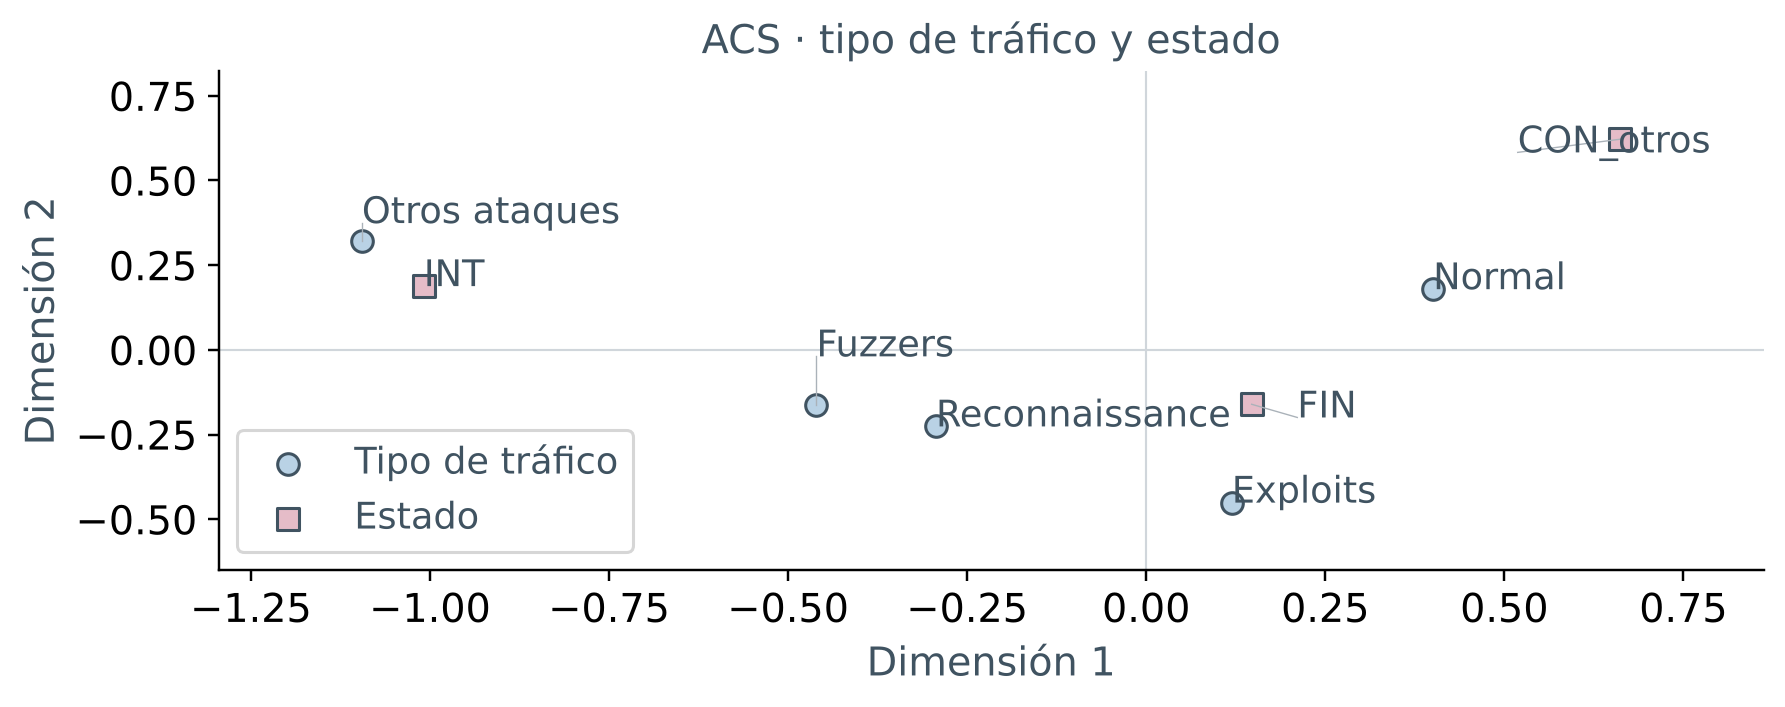
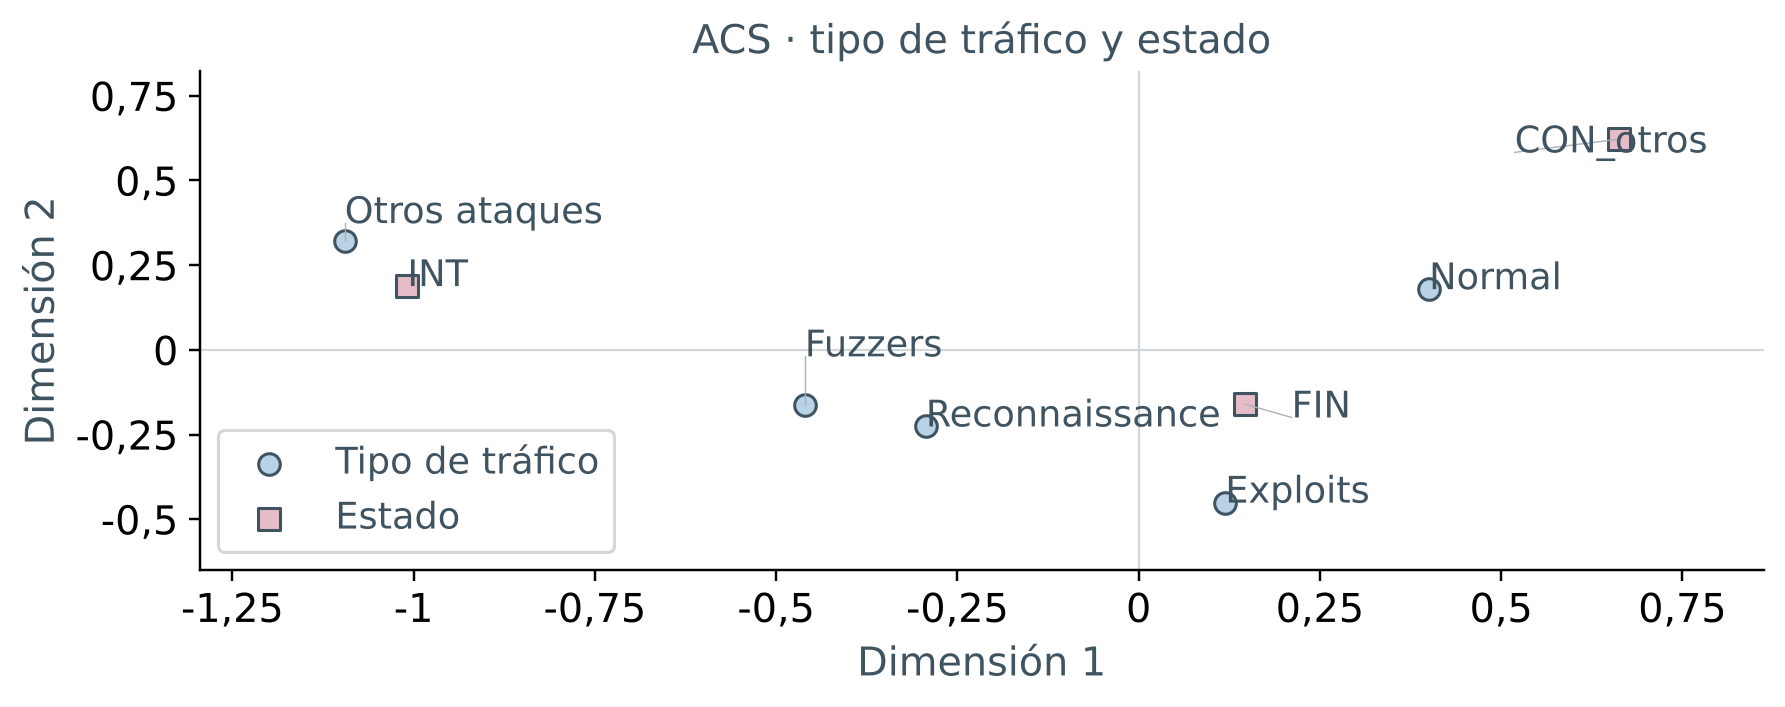
Figuras: coma decimal en ejes, porcentajes del biplot y umbral 1/Q calculados
Claude-Session: https://claude.ai/code/session_01R3eRD9aWdWVaf9U5N6a3X7

diff --git a/informe/capitulos/02_datos.tex b/informe/capitulos/02_datos.tex
@@ -1,17 +1,17 @@
 \section{Datos}
 \label{sec:datos}
 
-\textbf{Origen y unidad de análisis.} Trabajamos con UNSW-NB15 \citep{moustafa2015,moustafa2016}, publicada por UNSW Canberra para uso académico con obligación de citar a sus autores. El tráfico normal es realista, pero los ataques se generaron de forma sintética en un laboratorio. La unidad de análisis es el flujo; el prefijo \texttt{s} indica el sentido origen$\to$destino y \texttt{d} el inverso. Partimos del archivo de entrenamiento (175.341 flujos y 45 columnas) y construimos una muestra de 5.000 flujos únicos, estratificada de forma proporcional por \texttt{attack\_cat}: 48,2~\% normales y 51,8~\% ataques (Exploits 18,4~\%, Fuzzers 15,0~\%, Reconnaissance 7,0~\% y el resto, 11,5~\%, agrupado como ``otros ataques''). Al eliminar los duplicados, que en el archivo original eran el 38,6~\% y en su mayoría ataques automáticos, analizamos perfiles distintos de flujo: las proporciones de la muestra no son prevalencias reales de la red.
+\textbf{Origen y muestra.} Trabajamos con UNSW-NB15 \citep{moustafa2015,moustafa2016}, de uso académico con obligación de citar a sus autores. El tráfico normal es realista, pero los ataques se generaron de forma sintética en un laboratorio. Cada fila es un flujo, una conversación entre origen y destino (el prefijo \texttt{s} indica el sentido origen$\to$destino y \texttt{d} el inverso). Del archivo de entrenamiento (175.341 flujos) tomamos 5.000 flujos únicos, con muestreo estratificado proporcional por \texttt{attack\_cat}: 48,2~\% normales y 51,8~\% ataques (Exploits 18,4~\%, Fuzzers 15,0~\%, Reconnaissance 7,0~\% y otros 11,5~\%). Al no haber duplicados (eran el 38,6~\% del original, sobre todo ataques automáticos) analizamos perfiles distintos, de modo que las proporciones no son prevalencias reales de una red.
 
-\textbf{Transformación.} Las variables son positivas, con colas muy largas y rangos de varios órdenes de magnitud. Aplicamos $\log(x+1)$, que conserva los ceros y reduce la asimetría de \texttt{sbytes} de 33,3 a 1,0, la de \texttt{spkts} de 30,9 a 0,8 y la de \texttt{dbytes} de 36,2 a $-0,4$. Persisten colas en \texttt{log\_dur} (2,8), \texttt{log\_ct\_src\_dport\_ltm} (3,1) y \texttt{log\_ct\_dst\_sport\_ltm} (4,7). Los gráficos antes y después están en el Anexo A (Figuras~\ref{fig:a-hist-crudos} y~\ref{fig:a-hist-log}).
+\textbf{Transformación.} Las variables son positivas, muy asimétricas y de rangos de varios órdenes de magnitud. Aplicamos $\log(x+1)$, que conserva los ceros y baja la asimetría de \texttt{sbytes} de 33,3 a 1,0; persisten colas en \texttt{log\_dur} (2,8) y en dos conteos (Anexo A, Figuras~\ref{fig:a-hist-crudos} y~\ref{fig:a-hist-log}).
 
-\textbf{Variables.} El conjunto X\_num queda formado por las 12 variables de la Tabla~\ref{tab:xnum}, todas en escala logarítmica, agrupadas en los tres bloques esperados. El conjunto X\_cat tiene siete variables: \texttt{tipo\_trafico} (Normal, Exploits, Fuzzers, Reconnaissance y Otros ataques), \texttt{proto\_g} (tcp 70,8~\%, udp 21,9~\%, otros 7,3~\%), \texttt{service\_g} (ninguno 60,0~\%, http 17,4~\%, otros 12,3~\%, dns 10,3~\%), \texttt{state\_g} (FIN 69,3~\%, INT 18,3~\%, CON\_otros 12,4~\%) y tres numéricas discretizadas, \texttt{respuesta\_destino}, \texttt{duracion\_banda} y \texttt{bytes\_origen\_banda}, cuyos cortes se justifican en la sección~\ref{sec:acm}. Ninguna categoría baja del 5~\% (la menor es Reconnaissance, con 7,0~\%). Las variables \texttt{tipo\_trafico}, \texttt{attack\_cat} y \texttt{label} no intervienen en la construcción de componentes, factores ni clusters: solo colorean o se cruzan después.
+\textbf{Variables.} X\_num son las 12 variables de la Tabla~\ref{tab:xnum}, en escala logarítmica. X\_cat tiene siete variables: \texttt{tipo\_trafico}, \texttt{proto\_g}, \texttt{service\_g} y \texttt{state\_g} (con categorías agrupadas) y tres numéricas discretizadas, \texttt{respuesta\_destino}, \texttt{duracion\_banda} y \texttt{bytes\_origen\_banda}, cuyos cortes se justifican en la sección~\ref{sec:acm}; ninguna categoría baja del 5~\% (Anexo A, Figura~\ref{fig:a-frecuencias}). \texttt{tipo\_trafico}, \texttt{attack\_cat} y \texttt{label} no construyen componentes, factores ni clusters: solo colorean o se cruzan después.
 
 \begin{table}[H]
   \centering
   \caption{Variables de X\_num (todas en escala $\log(x+1)$; la unidad es la de la variable original).}\label{tab:xnum}
   \begin{tablacompacta}
-  \begin{tabular}{@{}llp{6.6cm}l@{}}
+  \begin{tabular}{@{}llp{7.2cm}l@{}}
   \toprule
   Variable & Bloque esperado & Significado & Unidad \\
   \midrule
@@ -20,9 +20,9 @@
   \texttt{dbytes} & Volumen & Bytes enviados por el destino & bytes \\
   \texttt{dur} & Temporización & Duración total del flujo & segundos \\
   \texttt{sinpkt} & Temporización & Tiempo entre paquetes del origen & ms \\
-  \texttt{sjit} & Temporización & Jitter (variabilidad de esos tiempos) del origen & ms \\
-  \texttt{synack} & Temporización & Tiempo entre SYN y SYN-ACK (0 si no es TCP) & segundos \\
-  \texttt{ct\_srv\_src} & Repetición & Últimas 100 conexiones con igual servicio y origen & conexiones \\
+  \texttt{sjit} & Temporización & Jitter del origen (variación de esos tiempos) & ms \\
+  \texttt{synack} & Temporización & Tiempo SYN a SYN-ACK (0 si no es TCP) & segundos \\
+  \texttt{ct\_srv\_src} & Repetición & Entre las últimas 100 conexiones, igual servicio y origen & conexiones \\
   \texttt{ct\_srv\_dst} & Repetición & Ídem con igual servicio y destino & conexiones \\
   \texttt{ct\_src\_ltm} & Repetición & Ídem con igual origen & conexiones \\
   \texttt{ct\_src\_dport\_ltm} & Repetición & Ídem con igual origen y puerto destino & conexiones \\
@@ -32,17 +32,17 @@
   \end{tablacompacta}
 \end{table}
 
-\textbf{Calidad.} No hay valores faltantes ni textos vacíos, filas duplicadas ni identificadores repetidos, y tampoco valores negativos, TTL fuera de 0--255, conteos no enteros ni flujos con menos bytes que paquetes (Anexo A, Tabla~\ref{tab:a-calidad}). La única incidencia es un flujo con \texttt{is\_ftp\_login} = 4, un código no binario; lo conservamos porque esa variable no entra en los análisis. El servicio ``\texttt{-}'' se recodificó como ``ninguno'' (sin servicio identificado, no faltante). Hay ceros estructurales que no imputamos: \texttt{synack} en 1.482 flujos (29,6~\%, sin handshake TCP), \texttt{sjit} en 1.294 (25,9~\%) y \texttt{dbytes} en 945 (18,9~\%, el destino no respondió). Para los atípicos usamos el criterio de Tukey, fuera de $[Q_1-1{,}5\,\mathrm{RIC};\,Q_3+1{,}5\,\mathrm{RIC}]$ sobre la escala logarítmica. Resultan 1.714 flujos (34,3~\%) con al menos una de las 12 variables fuera de los límites; la mayor cifra es la de \texttt{log\_dbytes}, 1.056 casos (21,1~\%), de los cuales 945 son los ceros de flujos sin respuesta. En \texttt{log\_ct\_dst\_sport\_ltm} el criterio es poco informativo, porque el 90,7~\% de los flujos vale 1 y el rango intercuartílico es nulo. Decidimos conservar todos los flujos: en ciberseguridad lo extremo puede ser el fenómeno de interés y un valor extremo no prueba un error (boxplots en Anexo A, Figura~\ref{fig:a-boxplots}).
+\textbf{Calidad.} No hay faltantes, duplicados ni valores imposibles; la única incidencia es un flujo con \texttt{is\_ftp\_login} = 4 (código no binario), que conservamos porque esa variable no se usa (Anexo A, Tabla~\ref{tab:a-calidad}). El servicio ``\texttt{-}'' se recodificó como ``ninguno''. No imputamos los ceros estructurales: \texttt{synack} 29,6~\% (sin handshake TCP), \texttt{sjit} 25,9~\% y \texttt{dbytes} 18,9~\% (el destino no respondió). Para los atípicos usamos el criterio de Tukey ($1{,}5\times$ RIC) sobre la escala logarítmica: 1.714 flujos (34,3~\%) tienen al menos una de las 12 variables fuera de los límites, sobre todo \texttt{log\_dbytes} (21,1~\%, de los cuales 945 son esos ceros; Anexo A, Tabla~\ref{tab:a-atipicos} y Figura~\ref{fig:a-boxplots}). Los conservamos todos: en ciberseguridad lo extremo puede ser el fenómeno de interés y no prueba un error.
 
-\textbf{Descriptiva y supuestos.} La Figura~\ref{fig:correlaciones} muestra tres zonas. Las variables de volumen se correlacionan entre sí (\texttt{spkts}--\texttt{sbytes} 0,86; \texttt{spkts}--\texttt{dbytes} 0,80), las de temporización también (\texttt{sinpkt}--\texttt{sjit} 0,85; \texttt{dur}--\texttt{sinpkt} 0,68) y las de repetición forman un tercer grupo (\texttt{ct\_srv\_src}--\texttt{ct\_srv\_dst} 0,85; \texttt{ct\_src\_dport\_ltm}--\texttt{ct\_dst\_sport\_ltm} 0,74). Las repeticiones se correlacionan de forma negativa con el resto (entre $-0,13$ y $-0,43$), y \texttt{sjit} tiene correlaciones de 0,46 a 0,55 con las de volumen, de modo que los bloques no están completamente aislados.
+\textbf{Descriptiva y supuestos.} La Figura~\ref{fig:correlaciones} muestra tres zonas: volumen (\texttt{spkts}--\texttt{sbytes} 0,86), temporización (\texttt{sinpkt}--\texttt{sjit} 0,85) y repetición (\texttt{ct\_srv\_src}--\texttt{ct\_srv\_dst} 0,85), esta última con correlaciones negativas con el resto ($-0,13$ a $-0,43$). \texttt{sjit} también se asocia con el volumen (0,46 a 0,55), así que los bloques no están aislados.
 
 \begin{figure}[H]
   \centering
-  \grafico[0.56\linewidth]{04_correlaciones.png}
-  \caption{Correlaciones de Pearson entre las 12 variables de X\_num. Se distinguen los bloques de volumen, temporización y repetición de conexiones; el último se asocia de forma negativa con los otros dos. Fuente: elaboración propia con UNSW-NB15.}
+  \grafico[0.5\linewidth]{04_correlaciones.png}
+  \caption{Correlaciones de Pearson entre las 12 variables de X\_num. Se distinguen los bloques de volumen, temporización y repetición; el último se asocia de forma negativa con los otros dos. Fuente: elaboración propia con UNSW-NB15.}
   \label{fig:correlaciones}
 \end{figure}
 
-Los supuestos se cumplen: el determinante de la matriz de correlaciones es $6{,}3\times10^{-5}$ (mayor que $10^{-5}$), el KMO global es 0,748, la menor MSA es 0,621 (\texttt{log\_spkts}; ninguna variable queda bajo 0,50, Anexo A, Figura~\ref{fig:a-msa}) y la prueba de Bartlett rechaza que la matriz sea identidad ($\chi^2$ = 48.303,5; 66 gl; p < 0,001), aunque con n = 5.000 esto ocurre ante casi cualquier asociación y pesa más el KMO. Con las 14 variables candidatas el determinante era $1{,}0\times10^{-7}$, por la redundancia de \texttt{dpkts} (r = 0,95 con \texttt{dbytes}) y de \texttt{rate} (r = $-0,91$ con \texttt{sinpkt}, y calculada a partir de los paquetes y la duración). Quitar solo \texttt{dpkts} dejaba el determinante en $5{,}2\times10^{-6}$, aún bajo el umbral; por eso excluimos las dos. Estas columnas siguen en la base: \texttt{dpkts} define \texttt{respuesta\_destino}.
+Los supuestos se cumplen (Anexo A, Figura~\ref{fig:a-msa}): determinante $6{,}3\times10^{-5}$ (mayor que $10^{-5}$), KMO global 0,748, MSA mínima 0,621 (\texttt{log\_spkts}) y Bartlett significativo ($\chi^2$ = 48.303,5; 66 gl; p < 0,001), aunque con n = 5.000 pesa más el KMO. Con 14 candidatas el determinante era $1{,}0\times10^{-7}$ por la redundancia de \texttt{dpkts} (r = 0,95 con \texttt{dbytes}) y de \texttt{rate} (r = $-0,91$ con \texttt{sinpkt}, calculada a partir de paquetes y duración); quitar solo \texttt{dpkts} lo dejaba en $5{,}2\times10^{-6}$, todavía bajo el umbral, por lo que excluimos ambas.
 
-\textbf{Vínculo con H1.} Las correlaciones son compatibles con tres bloques, aunque la separación entre volumen y temporización es parcial; las secciones siguientes ponen a prueba si ACP, AF y el cluster de variables los recuperan.
+\textbf{Vínculo con H1.} Las correlaciones son compatibles con tres bloques, con separación parcial entre volumen y temporización; las secciones siguientes ponen a prueba si los métodos los recuperan.

diff --git a/informe/capitulos/03_acp.tex b/informe/capitulos/03_acp.tex
@@ -1,5 +1,46 @@
 \section{Análisis de componentes principales}
 \label{sec:acp}
 
-[Pendiente]
+\textbf{Estandarización.} Aplicamos \texttt{prcomp(X\_num, scale. = TRUE)}. Las varianzas de las variables en escala logarítmica son muy desiguales: van de 0,002 (\texttt{log\_synack}) a 13,61 (\texttt{log\_sjit}), más de 7.500 veces, y tres de ellas (\texttt{log\_sjit}, \texttt{log\_dbytes} y \texttt{log\_sinpkt}) reúnen el 83,2~\% de la varianza total. Sin estandarizar, la primera componente captaría el 66,4~\% de la variabilidad, frente al 43,3~\% con estandarización: ese resultado reflejaría las unidades y no las relaciones entre variables. Por eso trabajamos con la matriz de correlaciones \citep{johnson2007}.
 
+\textbf{Cantidad de componentes.} Los autovalores son 5,195, 2,026 y 1,721 para las tres primeras componentes, y el cuarto cae a 0,759; solo tres superan 1 (criterio de Kaiser). El gráfico del codo (Figura~\ref{fig:acp-biplot}, izquierda) muestra una caída marcada hasta la tercera y un tramo casi plano después. Las tres componentes explican el 43,3~\%, el 16,9~\% y el 14,3~\% de la varianza, 74,5~\% acumulado, y cada una de las restantes aporta menos del 6,4~\%. Retenemos tres, que son interpretables y coinciden en número con los bloques de H1.
+
+\textbf{Interpretación.} La Tabla~\ref{tab:acp-cargas} muestra las correlaciones variable--componente. En CP1, las siete variables de volumen y temporización tienen signo positivo (0,54 a 0,82) y las cinco de repetición, negativo ($-0,56$ a $-0,70$); las que más contribuyen son \texttt{log\_sjit} (13,1~\%), \texttt{log\_sinpkt} (9,9~\%) y \texttt{log\_ct\_srv\_dst} (9,4~\%). CP2 se construye sobre todo con \texttt{log\_spkts} (20,1~\%), \texttt{log\_sbytes} (15,7~\%) y las repeticiones \texttt{log\_ct\_srv\_src} (12,7~\%) y \texttt{log\_ct\_srv\_dst} (11,8~\%), todas con signo positivo. CP3 se define por \texttt{log\_sinpkt} (20,1~\%) y \texttt{log\_synack} (19,6~\%), con signo contrario al de los bytes y paquetes. La variable peor representada es \texttt{log\_ct\_src\_ltm} (cos2 total 0,52); la mejor, \texttt{log\_spkts} (0,94).
+
+\begin{table}[H]
+  \centering
+  \caption{Correlaciones entre cada variable y las tres componentes retenidas, en negrita las de $|r| \geq 0{,}5$, y calidad de representación acumulada (suma de cos2 en CP1--CP3).}\label{tab:acp-cargas}
+  \begin{tablacompacta}
+  \begin{tabular}{@{}llrrrr@{}}
+  \toprule
+  Variable & Bloque esperado & CP1 & CP2 & CP3 & cos2 total \\
+  \midrule
+  \texttt{log\_spkts} & Volumen & \textbf{0,64} & \textbf{0,64} & $-$0,35 & 0,94 \\
+  \texttt{log\_sbytes} & Volumen & \textbf{0,60} & \textbf{0,56} & $-$0,32 & 0,78 \\
+  \texttt{log\_dbytes} & Volumen & \textbf{0,64} & 0,45 & $-$0,39 & 0,76 \\
+  \texttt{log\_dur} & Temporización & \textbf{0,64} & 0,27 & 0,40 & 0,64 \\
+  \texttt{log\_sinpkt} & Temporización & \textbf{0,72} & 0,03 & \textbf{0,59} & 0,86 \\
+  \texttt{log\_sjit} & Temporización & \textbf{0,82} & 0,23 & 0,36 & 0,87 \\
+  \texttt{log\_synack} & Temporización & \textbf{0,54} & 0,00 & \textbf{0,58} & 0,63 \\
+  \texttt{log\_ct\_srv\_src} & Repetición & \textbf{$-$0,68} & \textbf{0,51} & 0,08 & 0,73 \\
+  \texttt{log\_ct\_srv\_dst} & Repetición & \textbf{$-$0,70} & 0,49 & 0,04 & 0,73 \\
+  \texttt{log\_ct\_src\_ltm} & Repetición & \textbf{$-$0,56} & 0,45 & 0,00 & 0,52 \\
+  \texttt{log\_ct\_src\_dport\_ltm} & Repetición & \textbf{$-$0,69} & 0,43 & 0,41 & 0,82 \\
+  \texttt{log\_ct\_dst\_sport\_ltm} & Repetición & \textbf{$-$0,61} & 0,29 & 0,44 & 0,65 \\
+  \bottomrule
+  \end{tabular}
+  \end{tablacompacta}
+\end{table}
+
+\textbf{Nombre de las componentes.} CP1 opone el tamaño y el ritmo del flujo (más paquetes y bytes, más duración, mayor espaciado y jitter) a la repetición de conexiones: la llamamos \emph{magnitud del flujo frente a repetición}. Un puntaje alto describe flujos largos o voluminosos, y uno bajo, ráfagas breves entre los mismos equipos. CP2 es ortogonal a la anterior y reúne volumen (paquetes y bytes) con repetición, ambos en positivo; la llamamos \emph{volumen de tráfico}, aunque no es un eje puro, porque las repeticiones también cargan sobre ella (0,29 a 0,51). CP3 queda definida por el espaciado entre paquetes y el tiempo del handshake, opuestos a los bytes: \emph{ritmo lento}.
+
+\begin{figure}[H]
+  \centering
+  \grafico[0.9\linewidth]{08_acp_codo_biplot.png}
+  \caption{Gráfico del codo (izquierda) y biplot de CP1 y CP2 (derecha), con los flujos coloreados por \texttt{tipo\_trafico}. Los tipos de tráfico se solapan en gran medida; los tres flujos extremos están rotulados con su identificador. Fuente: elaboración propia con UNSW-NB15.}
+  \label{fig:acp-biplot}
+\end{figure}
+
+\textbf{Observaciones extremas.} Medimos la distancia de cada flujo al centro en el espacio de las tres componentes, ponderada por la varianza de cada una. Los tres más alejados (id 127446, 125215 y 136451, con distancias de 43,6, 38,0 y 32,6) tienen el mismo perfil: tráfico UDP al servicio DNS en estado INT, de 2 paquetes y 114 bytes, sin respuesta y con duración de 6 a 9 microsegundos. Son del tipo ``otros ataques'' (categoría Generic). Lo que los vuelve extremos es la repetición: sus conteos \texttt{ct\_srv\_src} van de 45 a 50 (la mediana es 3) y \texttt{ct\_src\_ltm} de 33 a 50 (mediana 2), lo que explica el puntaje muy negativo en CP1 ($-8,7$ a $-9,6$). No son errores: 152 flujos de la muestra comparten ese patrón de tamaño y todos son ataques. En el biplot, el tipo de tráfico no separa grupos nítidos.
+
+\textbf{Vínculo con H1.} El ACP necesita tres componentes, como bloques se esperaban, y aísla el bloque de repetición, que se opone al resto en CP1. En cambio, volumen y temporización no se separan en CP1 (ambos con signo positivo) y \texttt{log\_sjit} carga más en CP1 que en CP3. Hasta aquí H1 se sostiene en parte; la rotación del análisis factorial dirá si los tres bloques emergen de forma más limpia.

diff --git a/python/graficos_parte2.py b/python/graficos_parte2.py
@@ -4,7 +4,7 @@ import matplotlib
 matplotlib.use("Agg")
 import matplotlib.pyplot as plt
 from matplotlib.colors import LinearSegmentedColormap
-from matplotlib.ticker import MaxNLocator
+from matplotlib.ticker import MaxNLocator, FuncFormatter, ScalarFormatter
 import numpy as np
 import pandas as pd
 
@@ -24,7 +24,15 @@ plt.rcParams.update({"font.family": "DejaVu Sans", "font.size": 13,
     "axes.spines.top": False, "axes.spines.right": False, "axes.titlesize": 13,
     "text.color": DARK, "axes.labelcolor": DARK, "figure.facecolor": "white"})
 
+def coma_decimal(fig):
+    """Usar coma decimal en los ejes numéricos, como en el resto del informe."""
+    for ax in fig.axes:
+        for eje in (ax.xaxis, ax.yaxis):
+            if isinstance(eje.get_major_formatter(), ScalarFormatter):
+                eje.set_major_formatter(FuncFormatter(lambda v, _: f"{v:g}".replace(".", ",")))
+
 def guardar(fig, nombre):
+    coma_decimal(fig)
     fig.savefig(F / f"{nombre}.png", dpi=220, bbox_inches="tight", facecolor="white")
     plt.close(fig)
 
@@ -135,7 +143,8 @@ for row in ext.itertuples():
     j = scores.index[scores.id.eq(row.id)][0]
     texts.append(ax.text(*xy[j], str(row.id), fontsize=11, fontweight="bold"))
 origen(ax)
-ax.set(title="Biplot de individuos y variables", xlabel="CP1 (43,29%)", ylabel="CP2 (16,88%)")
+pct = eig.porcentaje.iloc[:2].round(2).map(lambda v: f"{v:.2f}".replace(".", ","))
+ax.set(title="Biplot de individuos y variables", xlabel=f"CP1 ({pct.iloc[0]}%)", ylabel=f"CP2 ({pct.iloc[1]}%)")
 fig.legend(*ax.get_legend_handles_labels(), fontsize=10, loc="outside lower center", ncol=5, markerscale=2)
 adjust_text(texts, ax=ax, arrowprops=dict(arrowstyle="-", color="#929BA2", lw=.4))
 guardar(fig, "08_acp_codo_biplot")
@@ -215,8 +224,9 @@ guardar(fig, "13_acs_mapa")
 e = leer("acm_autovalores")
 fig, axs = plt.subplots(1, 2, figsize=(10, 2.1), layout="constrained")
 axs[0].plot(e.dimension, e.autovalor, "o-", color="#8AABC5")
-axs[0].axhline(1/7, color=DARK, ls="--", lw=.8)
+axs[0].axhline(1/leer("acm_resumen").Q.iloc[0], color=DARK, ls="--", lw=.8)
 axs[0].set(title="Autovalores crudos del ACM", xlabel="Dimensión", ylabel="Autovalor")
+axs[0].xaxis.set_major_locator(MaxNLocator(integer=True))
 axs[1].bar(e.dimension.iloc[:6], e.porcentaje_ajustado.iloc[:6], color=COL[1], edgecolor=DARK, linewidth=.5)
 axs[1].set(title="Inercia ajustada (ca::mjca)", xlabel="Dimensión", ylabel="Porcentaje ajustado")
 guardar(fig, "14_acm_inercia")

diff --git a/informe/anexos/a_datos.tex b/informe/anexos/a_datos.tex
@@ -22,6 +22,25 @@
   \end{tablacompacta}
 \end{table}
 
+\begin{table}[H]
+  \centering
+  \caption{Flujos fuera de los límites de Tukey ($1{,}5\times$ RIC) en cada variable de X\_num, sobre la escala logarítmica (n = 5.000). En \texttt{log\_ct\_dst\_sport\_ltm} el rango intercuartílico es nulo (el 90,7~\% de los flujos vale 1), de modo que cualquier valor mayor queda marcado.}\label{tab:a-atipicos}
+  \begin{tablacompacta}
+  \begin{tabular}{@{}lrr@{\hspace{1cm}}lrr@{}}
+  \toprule
+  Variable & Casos & \% & Variable & Casos & \% \\
+  \midrule
+  \texttt{log\_dur} & 189 & 3,8 & \texttt{log\_ct\_srv\_src} & 10 & 0,2 \\
+  \texttt{log\_spkts} & 19 & 0,4 & \texttt{log\_ct\_srv\_dst} & 10 & 0,2 \\
+  \texttt{log\_sbytes} & 256 & 5,1 & \texttt{log\_ct\_src\_ltm} & 127 & 2,5 \\
+  \texttt{log\_dbytes} & 1.056 & 21,1 & \texttt{log\_ct\_src\_dport\_ltm} & 581 & 11,6 \\
+  \texttt{log\_sinpkt} & 33 & 0,7 & \texttt{log\_ct\_dst\_sport\_ltm} & 466 & 9,3 \\
+  \texttt{log\_sjit} & 0 & 0,0 & \texttt{log\_synack} & 44 & 0,9 \\
+  \bottomrule
+  \end{tabular}
+  \end{tablacompacta}
+\end{table}
+
 \begin{figure}[H]
   \centering
   \grafico[0.95\linewidth]{01_boxplots.png}
@@ -32,7 +51,7 @@
 \begin{figure}[H]
   \centering
   \grafico[0.95\linewidth]{02_histogramas_log.png}
-  \caption{Histogramas de las 12 variables de X\_num tras la transformación $\log(x+1)$. Las distribuciones de volumen y de temporización son multimodales (las modas corresponden a protocolos y tipos de flujo) y las de repetición conservan una cola derecha. Fuente: elaboración propia con UNSW-NB15.}
+  \caption{Histogramas de las 12 variables de X\_num tras la transformación $\log(x+1)$. Varias distribuciones de volumen y de temporización son multimodales y las de repetición conservan una cola derecha. Fuente: elaboración propia con UNSW-NB15.}
   \label{fig:a-hist-log}
 \end{figure}
 

diff --git a/python/graficos_etapa0.py b/python/graficos_etapa0.py
@@ -5,7 +5,7 @@ import matplotlib
 matplotlib.use("Agg")  # Exportación reproducible: no abre ventanas ni requiere pantalla.
 import matplotlib.pyplot as plt
 from matplotlib.colors import LinearSegmentedColormap
-from matplotlib.ticker import MaxNLocator
+from matplotlib.ticker import MaxNLocator, FuncFormatter, ScalarFormatter
 import numpy as np
 import pandas as pd
 
@@ -37,7 +37,15 @@ plt.rcParams.update({"font.family": "DejaVu Sans", "font.size": 10,
 PASTEL = ["#C7DCEB", "#D7CCE8", "#CDE2D3", "#F0D4BE", "#EBCDD5"]
 EDGE = "#556874"
 
+def coma_decimal(fig):
+    """Usar coma decimal en los ejes numéricos, como en el resto del informe."""
+    for ax in fig.axes:
+        for eje in (ax.xaxis, ax.yaxis):
+            if isinstance(eje.get_major_formatter(), ScalarFormatter):
+                eje.set_major_formatter(FuncFormatter(lambda v, _: f"{v:g}".replace(".", ",")))
+
 def guardar(fig, name):
+    coma_decimal(fig)
     fig.savefig(FIGURES / f"{name}.png", dpi=200, bbox_inches="tight", facecolor="white")
     plt.close(fig)
 
